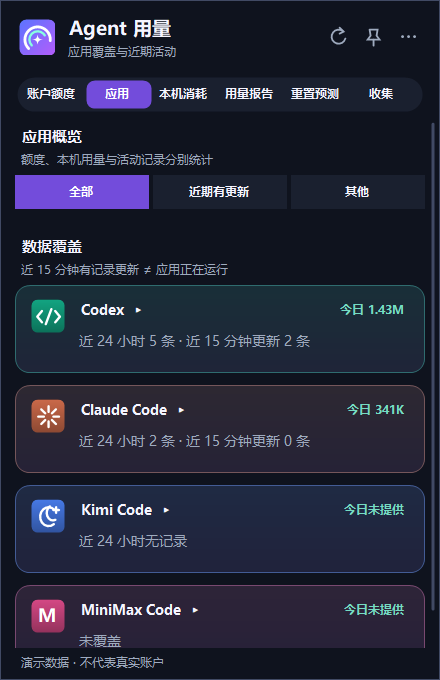
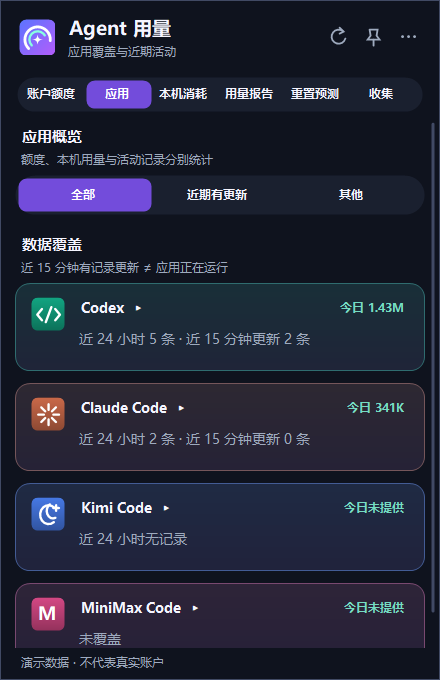
更新 Alpha 22 界面预览与中文说明

diff --git a/README.md b/README.md
@@ -10,11 +10,11 @@
 [![Windows 构建](https://github.com/FoxBai/agent-meter-windows/actions/workflows/windows-port.yml/badge.svg)](https://github.com/FoxBai/agent-meter-windows/actions/workflows/windows-port.yml)
 [![许可证：MIT](https://img.shields.io/badge/License-MIT-blue.svg)](LICENSE)
 
-[下载](https://github.com/FoxBai/agent-meter-windows/releases/tag/windows-v0.1.0-alpha.21) · [快速使用](windows/QUICK_START.md) · [更新记录](windows/CHANGELOG.md) · [移植进度](windows/PORT_PLAN.md) · [English](README.en.md)
+[下载](https://github.com/FoxBai/agent-meter-windows/releases/tag/windows-v0.1.0-alpha.22) · [快速使用](windows/QUICK_START.md) · [更新记录](windows/CHANGELOG.md) · [移植进度](windows/PORT_PLAN.md) · [English](README.en.md)
 
 </div>
 
-基于 [Gary23333/agent-meter](https://github.com/Gary23333/agent-meter) 的独立 Windows 移植版。当前为 **Alpha 21**：已有可运行的便携包，功能、材质和动效仍在向 macOS 原版靠拢。
+基于 [Gary23333/agent-meter](https://github.com/Gary23333/agent-meter) 的独立 Windows 移植版。当前为 **Alpha 22**：已有可运行的便携包，功能、材质和动效仍在向 macOS 原版靠拢。
 
 <p align="center">
   <img src="windows/assets/screenshot.png" width="400" alt="深色托盘弹层，虚构演示数据">
@@ -25,7 +25,7 @@
 
 ## 三步开始
 
-1. 从 [Alpha 21 发布页](https://github.com/FoxBai/agent-meter-windows/releases/tag/windows-v0.1.0-alpha.21) 下载 `AgentMeter-Windows-x64.zip`。
+1. 从 [Alpha 22 发布页](https://github.com/FoxBai/agent-meter-windows/releases/tag/windows-v0.1.0-alpha.22) 下载 `AgentMeter-Windows-x64.zip`。
 2. 解压并保留完整文件夹，运行 `AgentMeter.Windows.exe`。便携包已包含运行环境；WorkBuddy 登录另需 [WebView2 Runtime](https://developer.microsoft.com/microsoft-edge/webview2/)。
 3. 点击通知区域的图标查看用量；找不到时展开隐藏图标。右键或顶部三个圆点可切换账户、托盘余量和界面风格。
 

diff --git a/windows/PORT_PLAN.md b/windows/PORT_PLAN.md
@@ -48,7 +48,9 @@
 
[1 lines of base64/hex data omitted]
 
[2 lines of base64/hex data omitted]
+
[1 lines of base64/hex data omitted]
 
 ## 安全与数据边界
 

diff --git a/README.en.md b/README.en.md
@@ -80,7 +80,7 @@ The new Kimi, OpenCode, MiniMax Code, MiMo Code, DevECo and Qoder CN readers hav
 
 ### Download the preview
 
-Download [Windows v0.1.0-alpha.21](https://github.com/FoxBai/agent-meter-windows/releases/tag/windows-v0.1.0-alpha.21), extract `AgentMeter-Windows-x64.zip`, and run `AgentMeter.Windows.exe` from the extracted folder. The portable bundle includes the application runtime; WorkBuddy requires a separately installed WebView2 Runtime. The preview is not code-signed; the release page includes a SHA-256 checksum. Isolated Windows checks cover deactivation, pinning, owned windows, Esc and scrolling. Real taskbar, multi-monitor, high-DPI and a separate clean physical installation remain unverified.
+Download [Windows v0.1.0-alpha.22](https://github.com/FoxBai/agent-meter-windows/releases/tag/windows-v0.1.0-alpha.22), extract `AgentMeter-Windows-x64.zip`, and run `AgentMeter.Windows.exe` from the extracted folder. The portable bundle includes the application runtime; WorkBuddy requires a separately installed WebView2 Runtime. The preview is not code-signed; the release page includes a SHA-256 checksum. Isolated Windows checks cover deactivation, pinning, owned windows, Esc and scrolling. Real taskbar, multi-monitor, high-DPI and a separate clean physical installation remain unverified.
 
 ### Build from source
 
